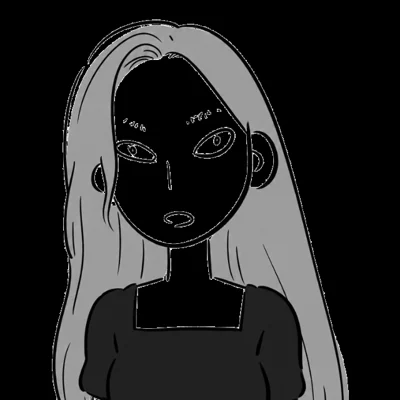
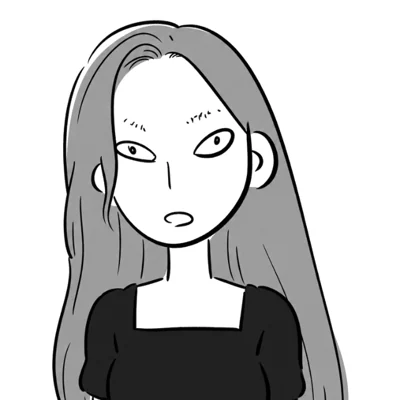
White character belt, fix character image backgrounds, add 만화제면소 inquiry button
Claude-Session: https://claude.ai/code/session_01S3kfGKTtndNHMUCwbBzgSE

diff --git a/index.html b/index.html
@@ -266,7 +266,7 @@ body{margin:0;background:var(--bg);color:var(--fg);font-family:"Pretendard Varia
 <div style="display:flex;align-items:center;gap:12px;font-size:12px;font-weight:700;letter-spacing:.26em;text-transform:uppercase;color:#3b6cf5"><span style="opacity:.55">05</span><span>Casting</span><span aria-hidden="true" style="flex:1;height:1px;background:currentColor;opacity:.25"></span></div>
 <h2 style="font-size:clamp(1.55rem,3.2vw,2.5rem);letter-spacing:-.03em;line-height:1.18;max-width:24ch">광고 컨셉에 맞춰<br>캐스팅할 수 있는 캐릭터.</h2>
 <p style="font-size: clamp(.9375rem,1.2vw,1.0625rem); line-height: 1.75; color: var(--muted); max-width: 48ch">직장·일상 등 상황별 캐릭터를 보유하고 있어, <br>브랜드가 필요한 톤과 타깃에 맞춰 화자를 선택할 수 있습니다.</p>
-</div><div style="overflow:hidden;padding:10px clamp(20px,5vw,72px);mask-image:linear-gradient(90deg,transparent,#000 6%,#000 94%,transparent);-webkit-mask-image:linear-gradient(90deg,transparent,#000 6%,#000 94%,transparent)">
+</div><div style="overflow:hidden;padding:28px clamp(20px,5vw,72px);background:#fff;mask-image:linear-gradient(90deg,transparent,#000 6%,#000 94%,transparent);-webkit-mask-image:linear-gradient(90deg,transparent,#000 6%,#000 94%,transparent)">
 <div style="display:flex;gap:16px;width:max-content;animation:mjBelt 44s linear infinite">
 <figure style="margin:0;flex:0 0 auto;display:flex;flex-direction:column;gap:8px;width:152px"><div style="width:152px;height:152px;background:#fff;border-radius:4px;overflow:hidden;display:grid;place-items:center"><img src="assets/characters/bust/kim-daeri.webp" alt="김대리" style="width:100%;height:100%;object-fit:contain"></div></figure>
 <figure style="margin:0;flex:0 0 auto;display:flex;flex-direction:column;gap:8px;width:152px"><div style="width:152px;height:152px;background:#fff;border-radius:4px;overflow:hidden;display:grid;place-items:center"><img src="assets/characters/bust/kim-sawon.webp" alt="김사원" style="width:100%;height:100%;object-fit:contain"></div></figure>
@@ -345,6 +345,10 @@ body{margin:0;background:var(--bg);color:var(--fg);font-family:"Pretendard Varia
 </div>
 <a href="https://www.instagram.com/tangyo_toon/" target="_blank" rel="noopener" style="width:100%;display:flex;align-items:center;justify-content:space-between;gap:16px;padding:22px 24px;background:var(--card);color:var(--fg);border-radius:4px;box-sizing:border-box">
 <span style="display:flex;flex-direction:column;gap:4px"><span style="font-size:12px;font-weight:700;letter-spacing:.22em;color:var(--label)">INSTAGRAM</span><span style="font-size:1.125rem;font-weight:800">@tangyo_toon</span></span>
+<span aria-hidden="true" style="font-size:1.25rem">↗</span>
+</a>
+<a href="https://salestracker-eight.vercel.app/c/c-ayz7rebu0r8prq" target="_blank" rel="noopener" style="width:100%;display:flex;align-items:center;justify-content:space-between;gap:16px;padding:22px 24px;background:var(--card);color:var(--fg);border-radius:4px;box-sizing:border-box">
+<span style="display:flex;flex-direction:column;gap:6px"><img data-logo="light" src="assets/logo/manjeso-wordmark-on-light.png" alt="만화제면소" style="width:84px;height:auto"><img data-logo="dark" src="assets/logo/manjeso-wordmark-on-dark.png" alt="만화제면소" style="width:84px;height:auto"><span style="font-size:1.125rem;font-weight:800">만화제면소 통해 문의하기</span></span>
 <span aria-hidden="true" style="font-size:1.25rem">↗</span>
 </a>
 </div>
